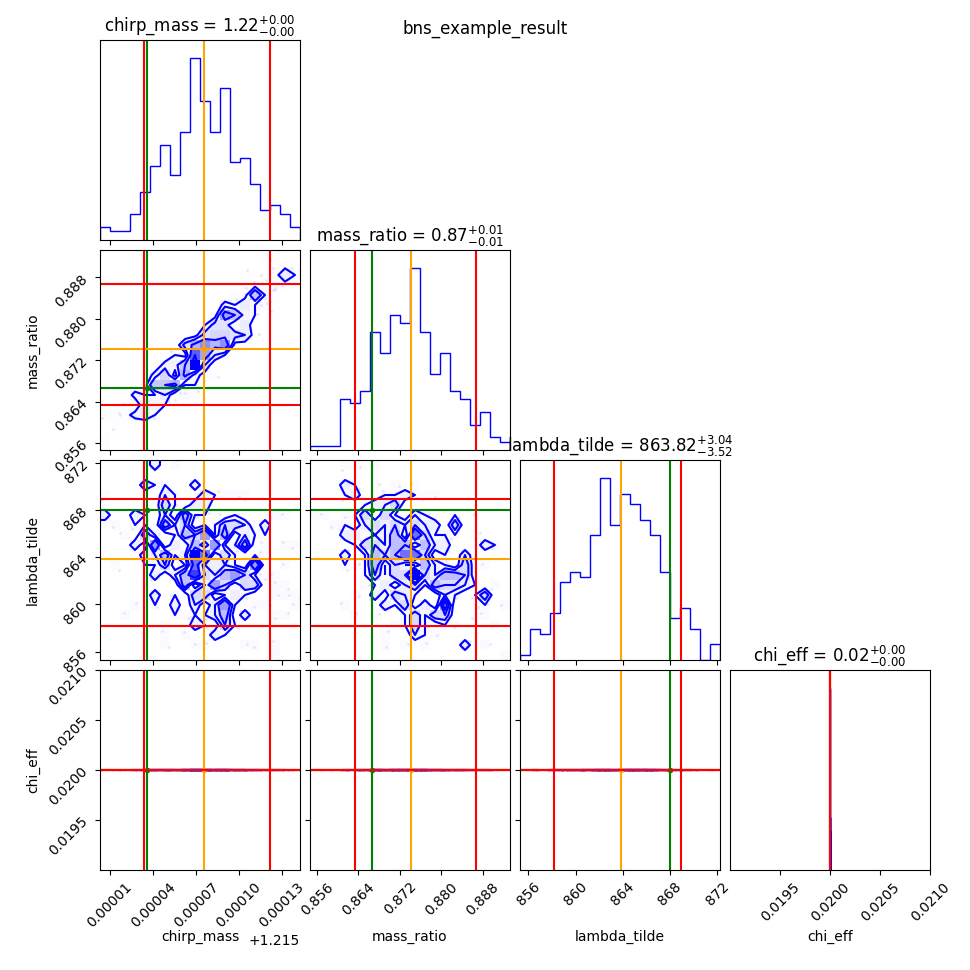
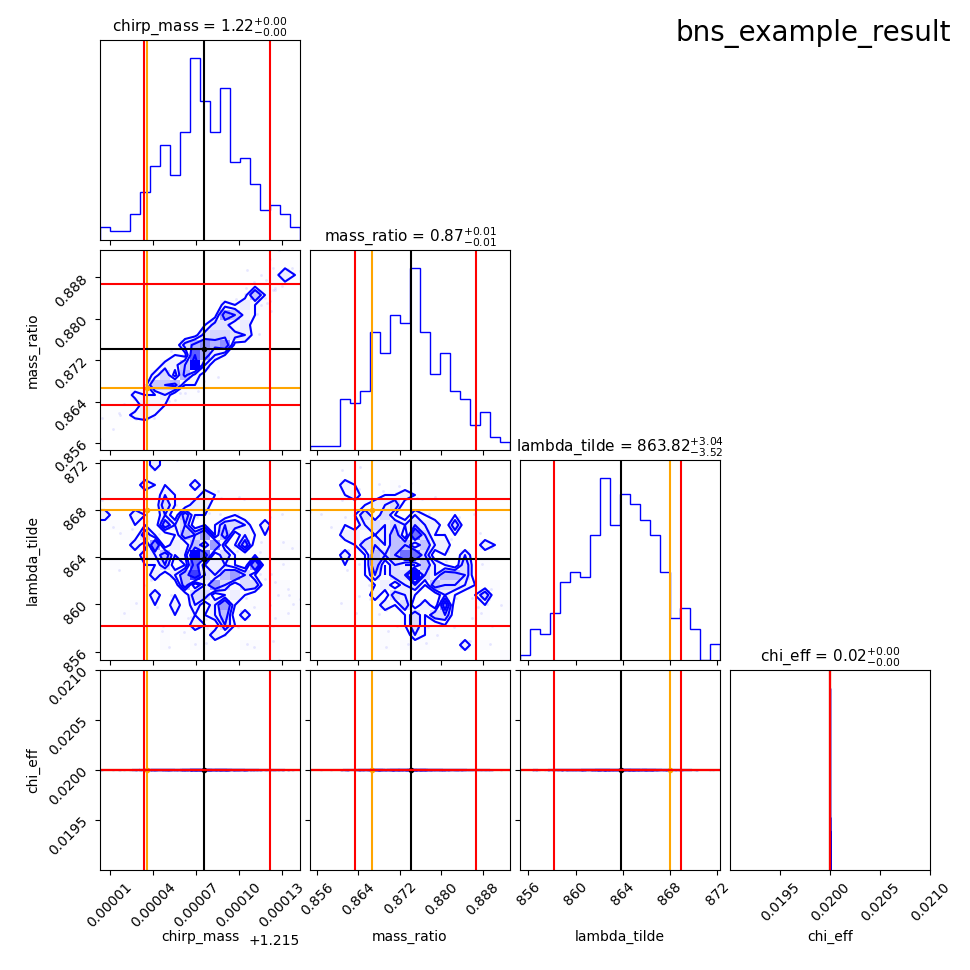
ignores fixed parameters, fiddled with font sizes, positioned suptitle to top right

diff --git a/plot_corner.py b/plot_corner.py
@@ -5,6 +5,7 @@ import matplotlib.pyplot as plt
 class PlotCorner:
     def __init__(self, data):
         self.parameters = data.parameters
+        self.valid_parameters = []
         self.posteriors = []
         self.injection_values = []
         self.lower_quantiles = []
@@ -12,11 +13,15 @@ class PlotCorner:
         self.medians = []
 
         for parameter in self.parameters:
-            self.posteriors.append(data.posteriors_dict[parameter])
-            self.injection_values.append(data.injection_dict[parameter])
-            self.lower_quantiles.append(np.quantile(data.posteriors_dict[parameter], 0.05))
-            self.upper_quantiles.append(np.quantile(data.posteriors_dict[parameter], 0.95))
-            self.medians.append(np.median(data.posteriors_dict[parameter]))
+            if len(set(data.posteriors_dict[parameter])) == 1:
+                print('Ignoring fixed parameter ' + parameter + '.')
+            else:
+                self.valid_parameters.append(parameter)
+                self.posteriors.append(data.posteriors_dict[parameter])
+                self.injection_values.append(data.injection_dict[parameter])
+                self.lower_quantiles.append(np.quantile(data.posteriors_dict[parameter], 0.05))
+                self.upper_quantiles.append(np.quantile(data.posteriors_dict[parameter], 0.95))
+                self.medians.append(np.median(data.posteriors_dict[parameter]))
 
         self.posteriors = np.array(self.posteriors).T
         self.injection_values = np.array(self.injection_values)
@@ -25,18 +30,18 @@ class PlotCorner:
         self.medians = np.array(self.medians)
 
     def plot(self, show=False, save=False, title=''):
-        fig = corner.corner(data=self.posteriors, labels=self.parameters, show_titles=True, color='blue')
+        fig = corner.corner(data=self.posteriors, labels=self.valid_parameters, show_titles=True, color='blue', title_quantiles=[0.05, 0.5, 0.95], title_kwargs={'fontsize' : 11})
 
-        corner.overplot_lines(fig=fig, xs=self.injection_values, color='green')
-        corner.overplot_points(fig=fig, xs=self.injection_values[None], color='green')
+        corner.overplot_lines(fig=fig, xs=self.injection_values, color='orange')
+        corner.overplot_points(fig=fig, xs=self.injection_values[None], color='orange')
 
-        corner.overplot_lines(fig=fig, xs=self.medians, color='orange')
-        corner.overplot_points(fig=fig, xs=self.medians[None], color='orange')
+        corner.overplot_lines(fig=fig, xs=self.medians, color='black')
+        corner.overplot_points(fig=fig, xs=self.medians[None], color='black')
 
         corner.overplot_lines(fig=fig, xs=self.lower_quantiles, color='red')
         corner.overplot_lines(fig=fig, xs=self.upper_quantiles, color='red')
 
-        fig.suptitle(title)
+        fig.suptitle(title, fontsize=20, x=0.98, y=0.98, horizontalalignment='right')
 
         if save:
             plt.savefig(title + '_plot.png')

diff --git a/main.py b/main.py
@@ -1,10 +1,10 @@
 from data_loader_json import DataLoaderJSON
 from plot_corner import PlotCorner
 
-# filename = 'bns_example_result'
-filename = 'bns_fixed_m_example_result'
+filename = 'bns_example_result'
+# filename = 'bns_fixed_m_example_result'
 
-parameters = ['mass_ratio', 'lambda_tilde', 'chi_eff']
+parameters = ['chirp_mass', 'mass_ratio', 'lambda_tilde', 'chi_eff']
 
 data = DataLoaderJSON(filename=filename + '.json', parameters=parameters)
 plotter = PlotCorner(data)
